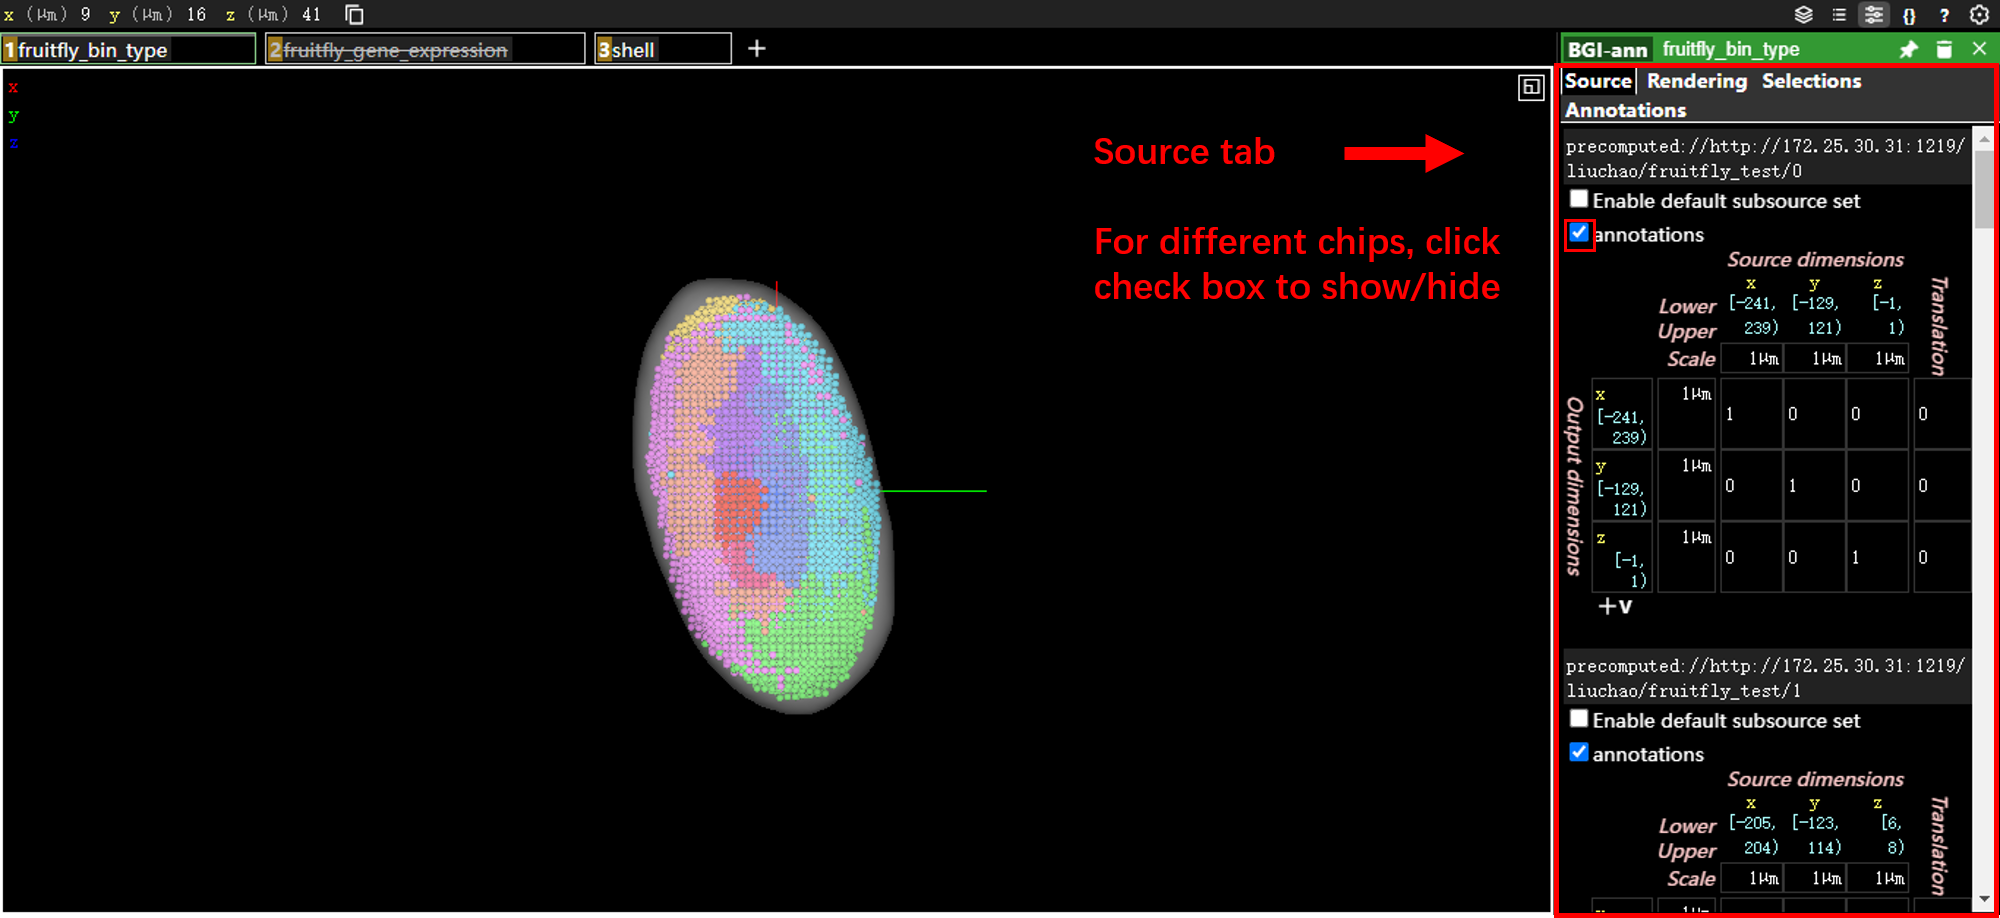
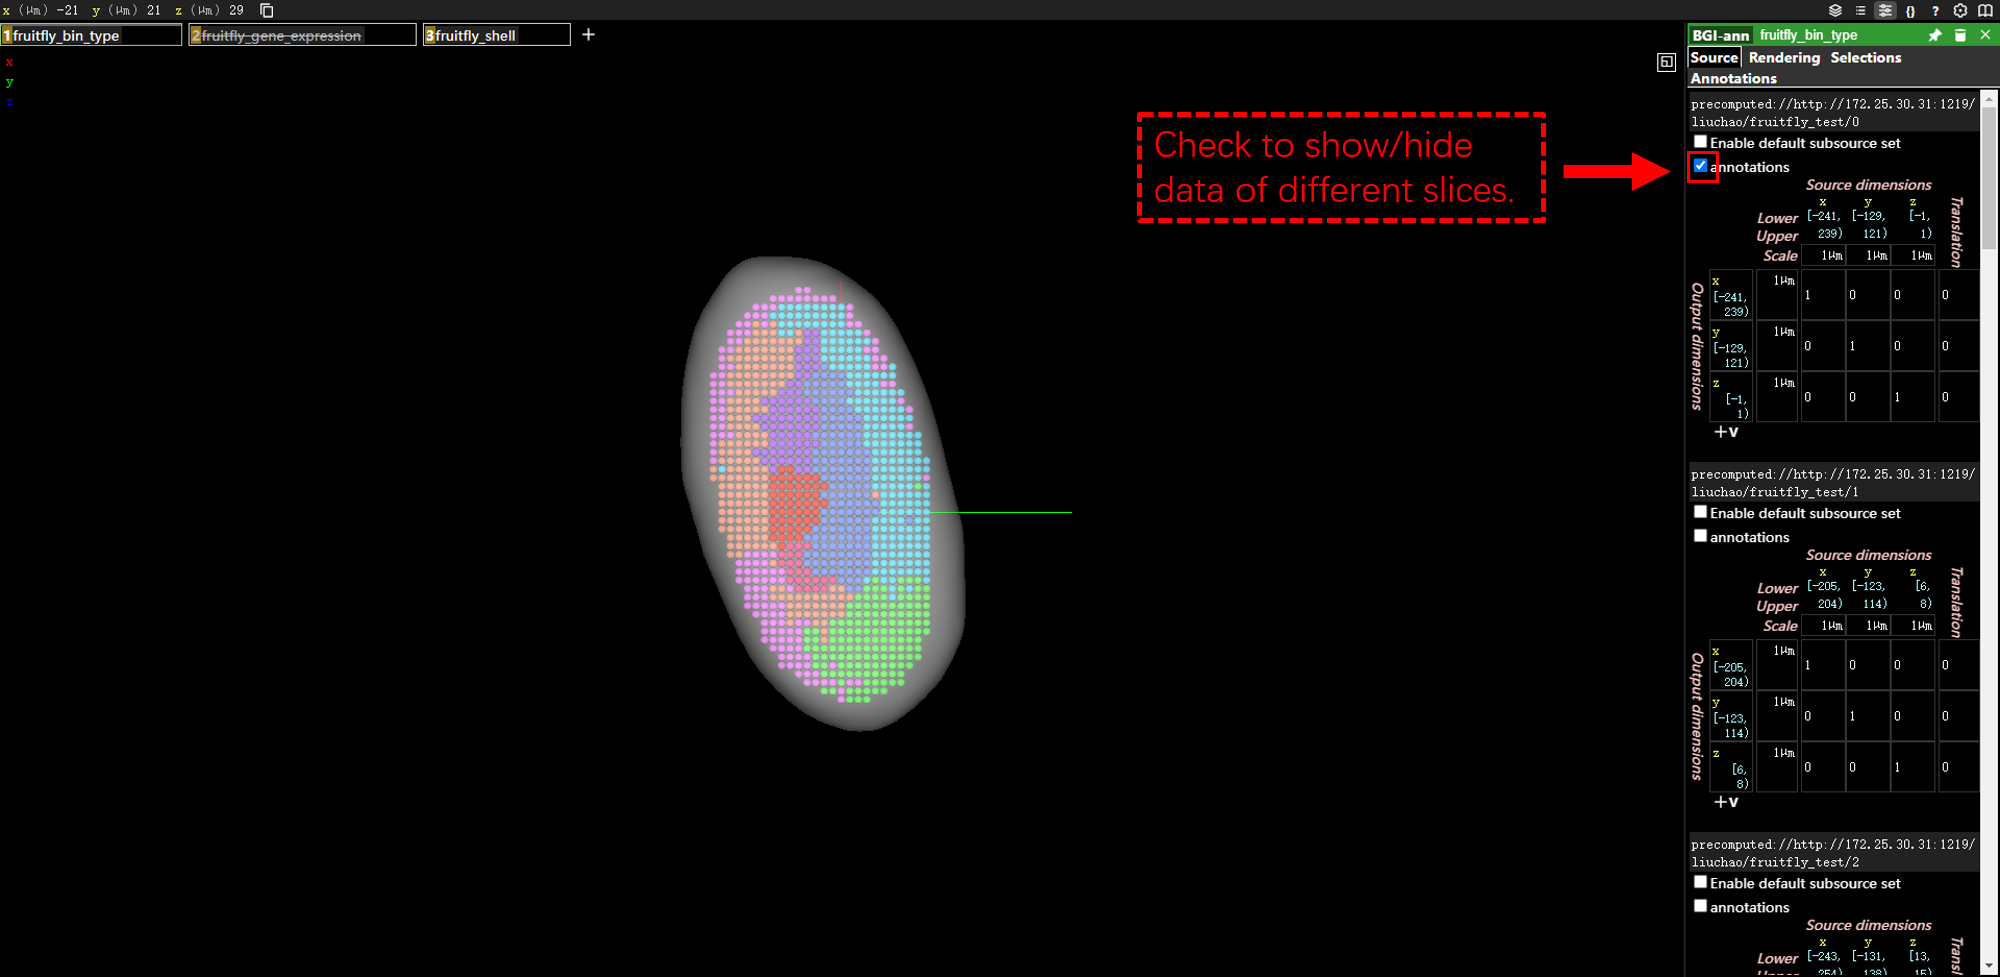
1.fix bugs about segment colors 2.add auto zoomscale state for fixpoints

Changed region(s): [[0.0, 0.0, 1.0, 1.0], [0.31, 0.244, 0.496, 0.793], [0.527, 0.305, 0.744, 0.3355]]

diff --git a/src/neuroglancer/annotation/user_layer.ts b/src/neuroglancer/annotation/user_layer.ts
@@ -653,6 +653,8 @@ export class Annotation2UserLayer extends Base {
     this.annotationDisplayState.shader.restoreState(specification[SHADER_JSON_KEY]);
     this.annotationDisplayState.shaderControls.restoreState(
       specification[SHADER_CONTROLS_JSON_KEY]);
+    this.displayState.segmentationGroupState.value.restoreState(specification);
+    this.displayState.segmentationColorGroupState.value.restoreState(specification);
   }
 
   getLegacyDataSourceSpecifications(

diff --git a/src/neuroglancer/annotation/type_handler.ts b/src/neuroglancer/annotation/type_handler.ts
@@ -298,6 +298,11 @@ void setFixpointMarkerBorderColor(vec4 color);
 void setFixpointMarkerSize(float size);
 void setFixpointMarkerBorderWidth(float size);
 void setFixpointMarkerBorderColor(vec3 color) { setFixpointMarkerBorderColor(vec4(color, 1.0)); }
+bool scale_state;
+void setAutoZoom() {
+    scale_state = true;
+}
+
 
 void setEllipsoidFillColor(vec4 color);
 

diff --git a/src/neuroglancer/annotation/fixpoint.ts b/src/neuroglancer/annotation/fixpoint.ts
@@ -89,7 +89,9 @@ if (aperspective_state != 0.0){
    ng_markerBorderWidth /= zToDivideBy;
    ng_markerDiameter *= 3.0;
 }
-ng_markerDiameter *=afactor;
+if (scale_state){
+  ng_markerDiameter *=afactor;
+}
 if (afactor <=0.2){
   ng_markerBorderWidth=0.0;
 }

diff --git a/src/neuroglancer/ui/readme_panel.ts b/src/neuroglancer/ui/readme_panel.ts
@@ -40,7 +40,8 @@ const imgMap = [
   'static/01.png',
   'static/02.png',
   'static/03.png',
-  'static/04.png'
+  'static/04.png',
+  'static/05.png'
 ]
 
 export class ReadmeDialog extends Overlay {
